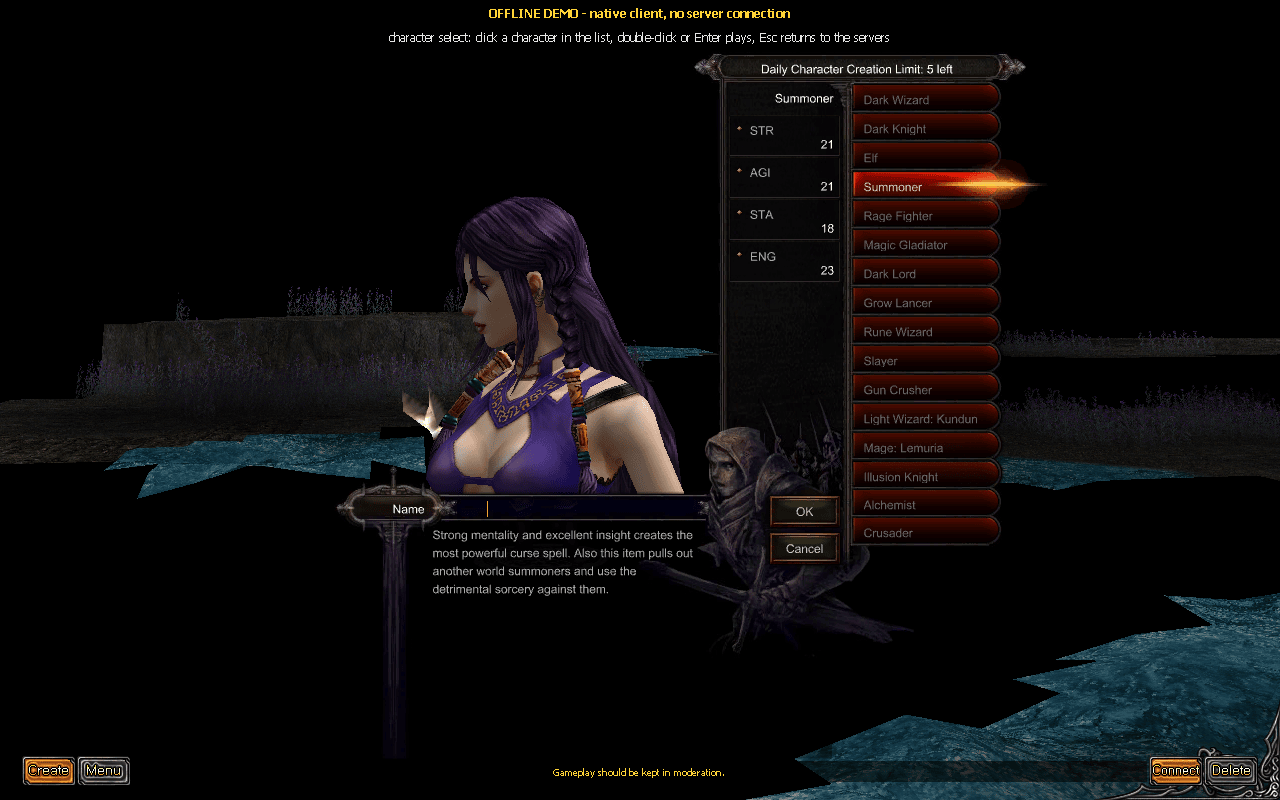
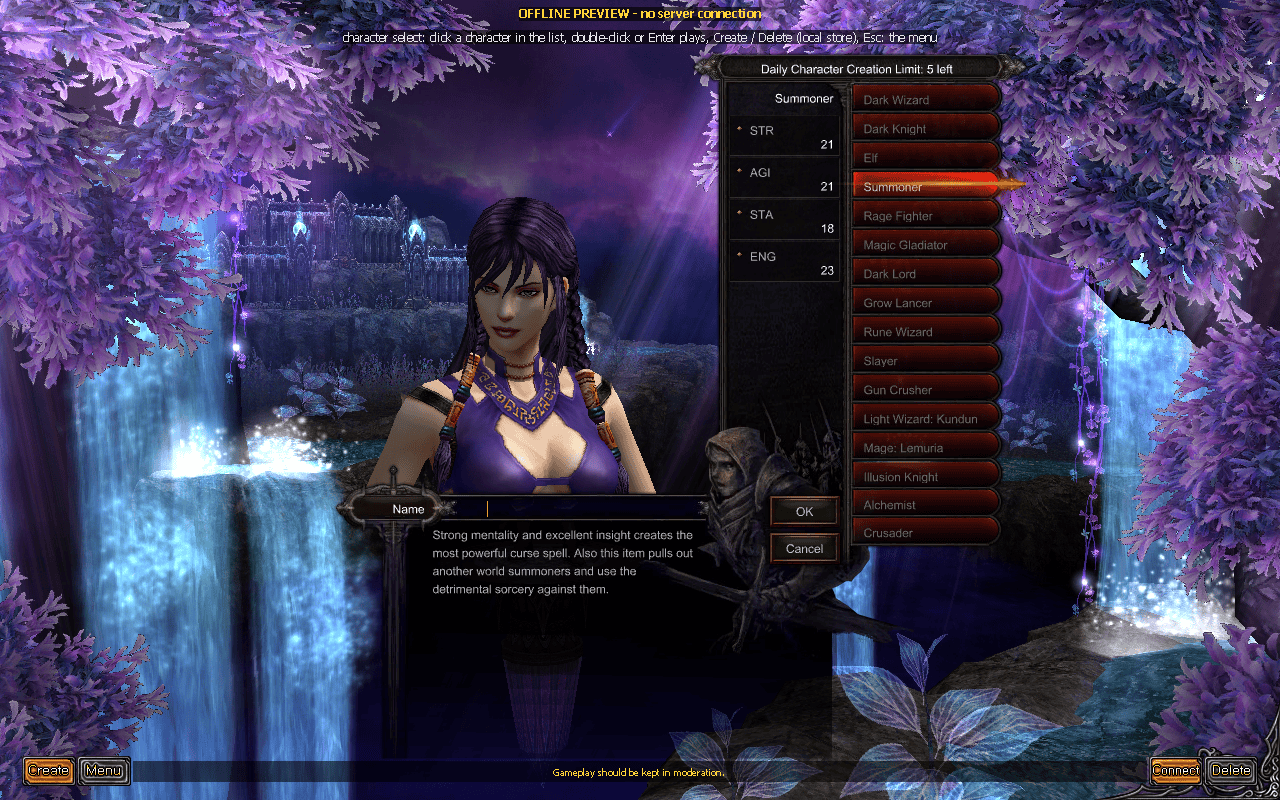
README-REFRESH-005-B: re-shoot README interface and menu images from main
Thirteen README images (04a, 04b, 07, 08, 09, 13, 14, 19, 20, 21, 23, 24, 25)
rendered again from main 18ab0134 with the offline public demo, the real Ruffle
library and the APP-REFRESH-006 Native Data, composed with the October layouts.
02 and 03 kept: today's output is the same pixels. The owner's character name
and vitals are gone; textured inventory items and NPC 257, ItemTRSData icon
sizes, town scenery and demo players. Audit pins, alt text, captions,
handoff and status lines updated.

diff --git a/scripts/audit_repository.py b/scripts/audit_repository.py
@@ -21,27 +21,27 @@ REVIEWED_MEDIA = {
     'docs/images/03-character-select.jpg':
[1 lines of base64/hex data omitted]
     'docs/images/04a-character-creation.png':
[2 lines of base64/hex data omitted]
     'docs/images/04b-character-creation-all-classes.jpg':
[2 lines of base64/hex data omitted]
     'docs/images/05-world-atlans-devias-noria-lorencia.jpg':
[1 lines of base64/hex data omitted]
     'docs/images/06-effects-skills-particles.jpg':
[1 lines of base64/hex data omitted]
     'docs/images/07-gfx-character-window-buffs.png':
[2 lines of base64/hex data omitted]
     'docs/images/08-inventory-item-tooltip.png':
[2 lines of base64/hex data omitted]
     'docs/images/09-npc-dialogue-and-shop.jpg':
[2 lines of base64/hex data omitted]
     'docs/images/10-combat-damage-numbers.jpg':
[1 lines of base64/hex data omitted]
     'docs/images/12-pets-and-mounts.jpg':
[1 lines of base64/hex data omitted]
     'docs/images/13-quests-my-quests.png':
[2 lines of base64/hex data omitted]
     'docs/images/14-skill-imprint-window.png':
[2 lines of base64/hex data omitted]
     'docs/images/15-lorencia-lighting-live-before-after.jpg':
[1 lines of base64/hex data omitted]
     'docs/images/16-login-live-wine-vs-native.jpg':
@@ -51,19 +51,19 @@ REVIEWED_MEDIA = {
     'docs/images/18-world-fidelity-live-before-after.jpg':
[1 lines of base64/hex data omitted]
     'docs/images/19-maps-tab-overlay-move-window.jpg':
[2 lines of base64/hex data omitted]
     'docs/images/20-skills-master-tree.jpg':
[2 lines of base64/hex data omitted]
     'docs/images/21-quests-guide-tracker.jpg':
[2 lines of base64/hex data omitted]
     'docs/images/22-mounts-pets-effects.jpg':
[1 lines of base64/hex data omitted]
     'docs/images/23-chaos-goblin-mix-personal-store.jpg':
[2 lines of base64/hex data omitted]
     'docs/images/24-social-party-trade-mail-whisper.jpg':
[2 lines of base64/hex data omitted]
     'docs/images/25-progression-character-options-menu.jpg':
[2 lines of base64/hex data omitted]
     'docs/images/26-80-players-lorencia.jpg':
[1 lines of base64/hex data omitted]
     'docs/images/27-80-players-tormenta-combat.jpg':

diff --git a/docs/handoffs/README-REFRESH-005-B.md b/docs/handoffs/README-REFRESH-005-B.md
@@ -1,0 +1,89 @@
+# README-REFRESH-005-B: README interface and menu images re-shot
+
+Docs and media lane, 2026-11-06. Worktree `worktrees/readme-images-b`, branch `claude/readme-images-b`, from
+origin/main `18ab0134` (#316 RENDER-ITEMS-002Q merged in steward batch 55 before any render). Claude Opus 5.5.
+Offline only: no original client, launcher, live read, account, network or protection work. The installed Native
+Preview, the Wine play app and the staged Wine app were not touched. The companion lane README-IMAGES-A
+(`docs/handoffs/README-REFRESH-005.md`) owns the world/combat/effects/comparison/crowd/viewer images and the
+README progress text; this lane changed only image files 02-25 of its share, their audit pins and the alt text and
+captions of its README sections.
+
+## How the images were made
+
+- Binaries: `mu-world` and `mu-client` built in this worktree from `18ab0134` (`nice -n 10 make -j4 world client`,
+  10.7 s). GFx: the real Ruffle library the app refreshes bundle (`scratch/polish/libmugfx.dylib`).
+- Data: the installed APP-REFRESH-006 Native Data, read-only: converted movies, objects and `MU_LANG_DIR` (with
+  Lang's `itemtrs.tsv`, so inventory icons use ItemTRSData as in the app).
+- Environment: `MU_GFX_PUBLIC_DEMO=1` (hero Preview, authored HUD maxima), `MU_GFX_SINGLE_BUFFER=1`,
+  `MU_GFX_TEST_CLOCK=1`, `--hero-name Preview`, headless GL, 1280×800 (02/03: 1504×936), the Lorencia demo
+  placement, NPC table and demo players. Window-only renders; no desktop screenshots.
+- Scripts (the documented verbs of each window's research note): `--npc-script` (dialogue, shop, `tipinv`,
+  `bufftip`, mix, personal store, quest verbs), `--skill-script` (`open`, `tree`, `treeclick`, `treeover`),
+  `--travel-script` (`tab`, `mwin`), `--social-script` (trade, `partner-item`, `trade-tip`, mailbox, messenger),
+  `--progress-script` (Options, Esc menu), mu-client `--script` for character creation.
+- Composition: the 2026-10-22 layouts (`renders/readme-sources/scripts/build.py`) re-used with the same crops,
+  sizes and labels; JPEG quality 85, PNGs 8-bit palette (pngquant), each ≤ 690 KB.
+
+Inputs that are fixture state, not new client behaviour:
+
+- 13/21: `MU_QUEST_SCENARIO=native/fixture/scenarios/quest-progress.scn` (as `test_native_quest` uses) puts quest 7
+  at 3/3. For 21's banner a local copy of that scenario adds one synthetic guide reward reply `c1 07 f6 51 00 00 01`
+  (result 1: QuestProgressInfo). Kept outside the repository.
+- 08: `damage:0:53` (an existing offline fixture verb) sets the Blade +9 to 53/53. See finding 1.
+- 20: `--class 0x81` gives the demo hero a master-stage class; without it the session hero (class 0x01) has no tree.
+- 24: a partner item as 15 wire bytes `004f3143000000ffffffffff000000` (Kris +9, durability 49, luck/option,
+  two excellent options, empty sockets).
+
+## Image by image
+
+| Image | Old (2026-10-21/22) | New | Decision |
+|---|---|---|---|
+| 02 login/server select | native login, server list | same scene, same movie | **Kept**: mean pixel difference 9/255, only the water phase moves; nothing visibly better |
+| 03 character select | GFx character list | same scene; only the hint line gained "Create / Delete (local store), Esc: the menu" | **Kept**: same pixels apart from that line |
+| 04a character creation | panel over a black void with broken water planes | panel over the full character-select scene (waterfalls, trees, temple) | Replaced |
+| 04b all classes | 16 busts on black | the same 16 crops with the scene behind each | Replaced |
+| 07 character window, buffs | the owner's character name and vitals, town objects missing, buff popup with a raw `%d` | hero Preview, demo players, Lorencia buildings, a formatted Potion of Soul popup | Replaced |
+| 08 inventory tooltip | bare ground without town objects, owner's name, real zen | town objects and demo players, ItemTRSData icon sizes, Preview, demo zen | Replaced |
+| 09 dialogue and shop | owner's name and real HP/MP/exp in the HUD | Preview, public-demo HUD, demo players, buildings | Replaced |
+| 13 My Quests | real HP/exp numbers, quest at 0/3 | public HUD, quest 3/3 with Move to NPC and the tracker | Replaced |
+| 14 Skill Imprint | owner's name and real HUD | Preview, demo players, public HUD | Replaced |
+| 19 maps | owner's name, real HUD, empty town | Preview, demo players, scenery under the overlay | Replaced |
+| 20 Master tree | the owner's master level/exp in the header and HUD | the same tree and tooltip with demo values, the town behind | Replaced (tree pixels themselves unchanged) |
+| 21 quests guide/tracker | owner's name, NPC 257 drawn white | Preview; NPC 257 textured (+13 armour, wings); banner and two tracker rows | Replaced |
+| 23 mix and personal store | white item silhouettes in the inventory, owner's name, real HUD | textured inventory items, Preview, public HUD | Replaced |
+| 24 party/trade/mail/whisper | owner's real HUD numbers | textured scenery and demo players, Preview in the messenger | Replaced |
+| 25 progression/options/menu | the owner's character name in the window title | Preview; Options and menu from today's build | Replaced; the "Original client" half is the same reviewed live crop as before |
+
+## Privacy review
+
+Every encoded file was opened and read after encoding. Names visible: Preview (the hero), the demo fixture players
+(Aeris, Kyra, Redhand, Mordred, Shopkeep, "Hero" in the social party list), NPC names from the client's tables and
+the offline-demo server labels. No account name, real player name, server address, chat from other players,
+local path or personal data. 25's "Original client" half (the only non-native pixels) is unchanged from the
+published image and has no names. Earlier images 07-25 showed the owner's character name and real vitals; those are
+gone.
+
+## Findings for other lanes
+
+1. Demo inventory items start at durability 1 (`mu_gfx_layer.c` add-item default, since ed9ed6be), so every
+   inventory tooltip in the offline demo reads e.g. "Durability: [1/53]"; the old 08 read 53/53. Cosmetic demo
+   state, not a renderer change; this lane did not change code.
+2. The October quest script (`5:click:soldier … 240:qkill:2`) no longer reaches an accepted quest without
+   `MU_QUEST_SCENARIO`; quests now arrive through the session (SESSION-QUEST-001). The research note's command
+   still omits that variable.
+
+## Checks
+
+Docs/media PR (TEST BUDGET rule 6c), with `MU_RECOVERY_INTEGRATION=1`:
+
+- `scripts/audit_repository.py`: 1,981 staged files, 0 rejected, 13 s;
+- `tests/`: `test_world_captures_2`, `test_repository_policy`: 13 tests OK, 0.5 s;
+- `native/tests/`: `test_native_item_textures`, `test_native_data_manifest`: 23 tests OK, 54 s;
+- README targets: 65 local link/image targets, all 27 images present, 0 missing.
+
+No runtime source changed. Steward validators: none.
+
+## Cleanup
+
+Renders, scratch and the worktree build were deleted after the ready line; the worktree stays until the steward
+merges. No local input needs keeping; the commands above and the 2026-10-22 layout script reproduce the images.

diff --git a/README.md b/README.md
@@ -107,8 +107,8 @@ Account-backed character lists and create/delete requests remain separate work
 
 | | |
 |---|---|
-| ![Character creation panel](docs/images/04a-character-creation.png) | ![All 16 class previews](docs/images/04b-character-creation-all-classes.jpg) |
-| Character creation: class list, stats and description | All 16 classes |
+| ![Character creation panel over the character-select scene](docs/images/04a-character-creation.png) | ![All 16 class previews in the creation panel](docs/images/04b-character-creation-all-classes.jpg) |
+| Character creation: class list, stats and description, over the character-select scene | All 16 classes |
 
 ### The world: terrain, lighting, objects, water, weather
 
@@ -200,7 +200,7 @@ with its level and cost list. Choosing a destination, or walking into a gate, lo
 original. The demo server answers the warp. The map's NPC/portal markers and detector dots now come from session
 records; travel, warp requests and respawn keep their earlier offline path.
 
-<p align="center"><img src="docs/images/19-maps-tab-overlay-move-window.jpg" alt="Left: the Tab map overlay with NPC markers in Lorencia. Right: the Move window" width="900"></p>
+<p align="center"><img src="docs/images/19-maps-tab-overlay-move-window.jpg" alt="Left: the Tab map overlay with NPC markers in Lorencia. Right: the Move window next to demo players" width="900"></p>
 
 ### Effects and particles
 
@@ -221,8 +221,8 @@ not yet established ([help window](docs/handoffs/SYS-MISC-001b.md)).
 
 | | |
 |---|---|
-| ![Character window, buff list and popup](docs/images/07-gfx-character-window-buffs.png) | ![Inventory with item models and tooltip](docs/images/08-inventory-item-tooltip.png) |
-| Character window and buffs | Inventory, item models, tooltip and price |
+| ![Character window, buff icons and a buff popup](docs/images/07-gfx-character-window-buffs.png) | ![Inventory with textured item icons and a tooltip](docs/images/08-inventory-item-tooltip.png) |
+| Character window and buffs | Inventory icons sized from the client's ItemTRSData, tooltip and price |
 
 ### NPCs, shops and quests
 
@@ -231,13 +231,13 @@ requirements and rewards. The loopback fixture now feeds quest state through the
 replies still need decoding, so that browsing path is unavailable
 ([session limits](docs/handoffs/SESSION-QUEST-001.md)).
 
-<p align="center"><img src="docs/images/09-npc-dialogue-and-shop.jpg" alt="NPC dialogue and the blacksmith's shop" width="900"></p>
+<p align="center"><img src="docs/images/09-npc-dialogue-and-shop.jpg" alt="Sir Lesnar's dialogue, and Hanzo the Blacksmith's shop with an item tooltip and the inventory" width="900"></p>
 
 The guide quests, class-upgrade quests and the quest tracker work as well: an NPC tells the story, My Quests lists
 the steps with their requirements and rewards, and **Go Now** walks or travels to the next target, across worlds if
 needed. The Shadow Phantom Soldier (NPC 257) stands in Lorencia in its +13 armour and wings, with its orbiting glow.
 
-<p align="center"><img src="docs/images/21-quests-guide-tracker.jpg" alt="Left: a guide quest's dialogue and My Quests with Go Now. Right: a completed quest, the tracker and NPC 257" width="900"></p>
+<p align="center"><img src="docs/images/21-quests-guide-tracker.jpg" alt="Left: an NPC quest page and My Quests with the guide quests. Right: the quest-completed banner, the tracker and the textured NPC 257" width="900"></p>
 
 ### Skills, the Master tree and the fourth tree
 
@@ -249,12 +249,12 @@ and some updates remain open. The fifth-tree windows can open, but their card/it
 
 | | |
 |---|---|
-| ![Master skill tree with a tooltip](docs/images/20-skills-master-tree.jpg) | ![Skill Imprint window and skill bar](docs/images/14-skill-imprint-window.png) |
+| ![Master skill tree of an Ignition Knight with a tooltip](docs/images/20-skills-master-tree.jpg) | ![Skill Imprint window and skill bar](docs/images/14-skill-imprint-window.png) |
 | The Master skill tree | The skill bar, tooltips and the Skill Imprint window |
 
 <details>
 <summary>The first quest window</summary>
-<p align="center"><img src="docs/images/13-quests-my-quests.png" alt="My Quests window" width="820"></p>
+<p align="center"><img src="docs/images/13-quests-my-quests.png" alt="My Quests with a hunt quest at 3/3 and the quest tracker" width="820"></p>
 </details>
 
 ### Combat, other players, pets and mounts
@@ -287,7 +287,7 @@ The Chaos Goblin's mix window ranks the recipes, shows the success rate and cost
 Life). The personal store registers and buys items, and NPCs repair. The outcome comes from the demo server, which
 does not predict the real server's results.
 
-<p align="center"><img src="docs/images/23-chaos-goblin-mix-personal-store.jpg" alt="Left: the Chaos Machine mix window with inventory. Right: registering an item in the personal store" width="900"></p>
+<p align="center"><img src="docs/images/23-chaos-goblin-mix-personal-store.jpg" alt="Left: the Chaos Machine mix window with the textured inventory. Right: registering a bundle in the personal store" width="900"></p>
 
 ### Party, trade, friends and mail
 
@@ -296,7 +296,7 @@ the messenger with whispers, and mail with read, reply, compose and delete. All 
 handlers, with demo players standing in for real ones. Party membership and invitations now arrive through the
 session; trade, friends and mail have not moved yet.
 
-<p align="center"><img src="docs/images/24-social-party-trade-mail-whisper.jpg" alt="Trade with an item tooltip and the party list; the friends list with mail; a whisper conversation" width="900"></p>
+<p align="center"><img src="docs/images/24-social-party-trade-mail-whisper.jpg" alt="Trade with an item tooltip and the party list; the mailbox with a letter; a whisper conversation" width="900"></p>
 
 ### Experience, levels and options
 

diff --git a/docs/design/native-port/plan.md b/docs/design/native-port/plan.md
@@ -1,5 +1,7 @@
 # Plan: the rest of the native macOS port
 
+README-REFRESH-005-B PR-ready: README images 04a, 04b, 07, 08, 09, 13, 14, 19, 20, 21, 23, 24 and 25 re-shot from main 18ab0134 (offline, public demo, real Ruffle, APP-REFRESH-006 Native Data); 02 and 03 kept (same pixels). The owner's character name and vitals are gone from all of them; textured inventory items and NPC 257, ItemTRSData icon sizes, town scenery and demo players. [Handoff](../../handoffs/README-REFRESH-005-B.md).
+
 TEST-SPEED-004 PR-ready: `--affected` selects a validator row only when the diff touches its derived inputs (imports and importlib loads, paths its code builds classified by use, per-target `make -nB` + `cc -MM` compiled inputs, its own script and manifest row); tooling/tests/docs select no row; per-row fallback (none today) instead of "unmapped → everything"; new `--affected-since <tested>` for the steward. Replay #292–#308: lane rows 1,331 → 619, steward rows 169 → 99 (#306: the steward's own 26), zero misses incl. #287 worlds_l/m and #260's link failure. Lanes: run what `--affected origin/main` selects and trust it. Each cached validator row is cold once after the merge. [Handoff](../../handoffs/TEST-SPEED-004.md), [TEST-BUDGET](../../testing/TEST-BUDGET.md#test-speed-004-each-rows-exact-inputs).
 
 TEST-SPEED-003 PR-ready: the original-side validator cache keeps 4 keys per name (LRU, 250 MB cap, concurrent-safe merge), so a lane branch and main stay warm side by side: item_product main/branch alternation 586/605 s cold → 34–37 s warm on every switch, byte-identical reports. `test_joints` builds libcombat itself, so fresh-worktree `--affected` passes. Full suites 1,973 tests, 0 failures, 198 s. [Handoff](../../handoffs/TEST-SPEED-003.md).
@@ -185,6 +187,7 @@ content (cash-shop catalogues, event schedules) is observable only live (OP).
 | README-STRESS-001 | Eighty-player README images, remote-armour glow texture lookup fix and public demo HUD | Synthetic regression, controlled GL hashes and local gate ([finding](../../research/readme-stress.md)) | NATIVE-PERF-003 | Implemented; historical timings only, 25 fps crowd target open |
 | README-REFRESH-003 | Public README coverage through PR #207; existing reviewed images reused | Documentation/source cross-check, local Mac gate and publication audit ([handoff](../../handoffs/README-REFRESH-003.md)) | Merged PRs #168–#207 | Implemented; runtime and media unchanged |
 | README-REFRESH-004 | Public README coverage through PR #241; existing reviewed images reused | Documentation/source cross-check, local Mac gate and publication audit ([handoff](../../handoffs/README-REFRESH-004.md)) | Merged PRs #215–#241 | Implemented; runtime and media unchanged |
+| README-REFRESH-005-B | README interface/menu images (02-25 share) re-shot from main; 02/03 kept | Visual and privacy review of each encoded file, audit pins, docs-only checks ([handoff](../../handoffs/README-REFRESH-005-B.md)) | #316 | PR-ready |
 
 ## H. Audio
 

diff --git a/docs/roadmap.md b/docs/roadmap.md
@@ -1,5 +1,7 @@
 # Roadmap and work queue
 
+README-REFRESH-005-B PR-ready: README images 04a, 04b, 07, 08, 09, 13, 14, 19, 20, 21, 23, 24 and 25 re-shot from main 18ab0134 (offline, public demo, real Ruffle, APP-REFRESH-006 Native Data); 02 and 03 kept (same pixels). The owner's character name and vitals are gone from all of them; textured inventory items and NPC 257, ItemTRSData icon sizes, town scenery and demo players. [Handoff](handoffs/README-REFRESH-005-B.md).
+
 RENDER-WORLDS-SLOTS2 PR-ready: RenderObjectVisual's outer `rand() % 30` now drawn in every class world (verified under Unicorn: 57/58, 62, 63, 64, 82, 100/101, 128..130, 137, the 93/94 scenes and the empty-slot worlds 113, 115..120, 138, 139 lacked it), and 17 more class slots: 125 → 142/144 (Santa 62, Imperial Guardian 69..72, 82, Arca War 92, Debenter 95, Uruk 100, Nars 110). Captures: Deep Dungeon 1..5 and Ignis change only by the RNG phase of their flicker lights; the other 26 and the October 22 tour are byte-identical. Test Area 121's two slots remain. [Handoff](handoffs/RENDER-WORLDS-SLOTS2.md)
 
 RENDER-WORLDS-SLOTS PR-ready: the world classes' custom render, after render and invisible-move slots. Census of all 48 classes × 3 slots: 49 → 125/144 native and instruction-compared (19 missing, none in a captured or warp-reachable world). New: custom/after of Vulcanus 63, Loren Market 79/Event square 114, Ferea 112, Swamp of Darkness 122 and Kubera 123..127 (with their bitmaps and handler state), invisible move of 142..145, and 60 trivial/base slots. Every hook around the class slot in RenderObjectVisual, the custom render and the after chain is a no-op in all 57 class worlds, so the direct dispatch is complete. Loren Market now draws RenderObjectVisual's outer rand. [Handoff](handoffs/RENDER-WORLDS-SLOTS.md)

diff --git a/docs/handoff.md b/docs/handoff.md
@@ -1,5 +1,7 @@
 # Continue from here
 
+README-REFRESH-005-B PR-ready: README images 04a, 04b, 07, 08, 09, 13, 14, 19, 20, 21, 23, 24 and 25 re-shot from main 18ab0134 (offline, public demo, real Ruffle, APP-REFRESH-006 Native Data); 02 and 03 kept (same pixels). The owner's character name and vitals are gone from all of them; textured inventory items and NPC 257, ItemTRSData icon sizes, town scenery and demo players. [Handoff](handoffs/README-REFRESH-005-B.md).
+
 RENDER-WORLDS-SLOTS2 PR-ready: RenderObjectVisual's outer `rand() % 30` now drawn in every class world (verified under Unicorn: 57/58, 62, 63, 64, 82, 100/101, 128..130, 137, the 93/94 scenes and the empty-slot worlds 113, 115..120, 138, 139 lacked it), and 17 more class slots: 125 → 142/144 (Santa 62, Imperial Guardian 69..72, 82, Arca War 92, Debenter 95, Uruk 100, Nars 110). Captures: Deep Dungeon 1..5 and Ignis change only by the RNG phase of their flicker lights; the other 26 and the October 22 tour are byte-identical. Test Area 121's two slots remain. [Handoff](handoffs/RENDER-WORLDS-SLOTS2.md)
 
 RENDER-WORLDS-SLOTS PR-ready: the world classes' custom render, after render and invisible-move slots. Census of all 48 classes × 3 slots: 49 → 125/144 native and instruction-compared (19 missing, none in a captured or warp-reachable world). New: custom/after of Vulcanus 63, Loren Market 79/Event square 114, Ferea 112, Swamp of Darkness 122 and Kubera 123..127 (with their bitmaps and handler state), invisible move of 142..145, and 60 trivial/base slots. Every hook around the class slot in RenderObjectVisual, the custom render and the after chain is a no-op in all 57 class worlds, so the direct dispatch is complete. Loren Market now draws RenderObjectVisual's outer rand. [Handoff](handoffs/RENDER-WORLDS-SLOTS.md)

diff --git a/docs/status.md b/docs/status.md
@@ -1,5 +1,7 @@
 # Current status
 
+README-REFRESH-005-B PR-ready: README images 04a, 04b, 07, 08, 09, 13, 14, 19, 20, 21, 23, 24 and 25 re-shot from main 18ab0134 (offline, public demo, real Ruffle, APP-REFRESH-006 Native Data); 02 and 03 kept (same pixels). The owner's character name and vitals are gone from all of them; textured inventory items and NPC 257, ItemTRSData icon sizes, town scenery and demo players. [Handoff](handoffs/README-REFRESH-005-B.md).
+
 RENDER-WORLDS-SLOTS2 PR-ready: RenderObjectVisual's outer `rand() % 30` now drawn in every class world (verified under Unicorn: 57/58, 62, 63, 64, 82, 100/101, 128..130, 137, the 93/94 scenes and the empty-slot worlds 113, 115..120, 138, 139 lacked it), and 17 more class slots: 125 → 142/144 (Santa 62, Imperial Guardian 69..72, 82, Arca War 92, Debenter 95, Uruk 100, Nars 110). Captures: Deep Dungeon 1..5 and Ignis change only by the RNG phase of their flicker lights; the other 26 and the October 22 tour are byte-identical. Test Area 121's two slots remain. [Handoff](handoffs/RENDER-WORLDS-SLOTS2.md)
 
 RENDER-WORLDS-SLOTS PR-ready: the world classes' custom render, after render and invisible-move slots. Census of all 48 classes × 3 slots: 49 → 125/144 native and instruction-compared (19 missing, none in a captured or warp-reachable world). New: custom/after of Vulcanus 63, Loren Market 79/Event square 114, Ferea 112, Swamp of Darkness 122 and Kubera 123..127 (with their bitmaps and handler state), invisible move of 142..145, and 60 trivial/base slots. Every hook around the class slot in RenderObjectVisual, the custom render and the after chain is a no-op in all 57 class worlds, so the direct dispatch is complete. Loren Market now draws RenderObjectVisual's outer rand. [Handoff](handoffs/RENDER-WORLDS-SLOTS.md)
